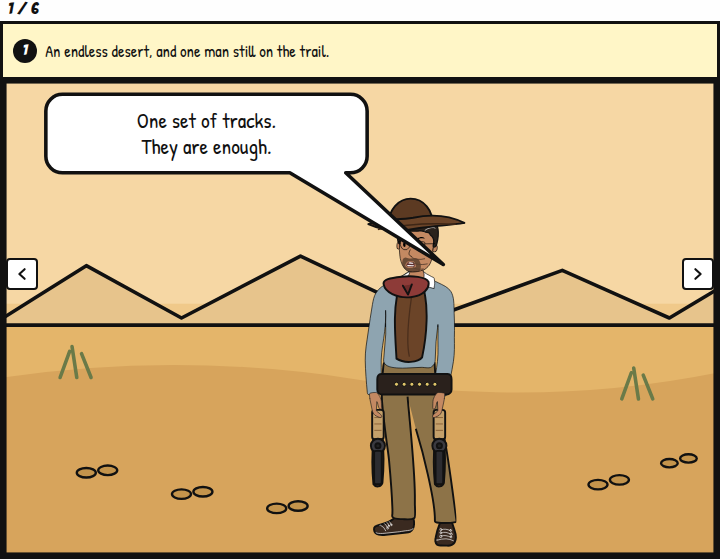
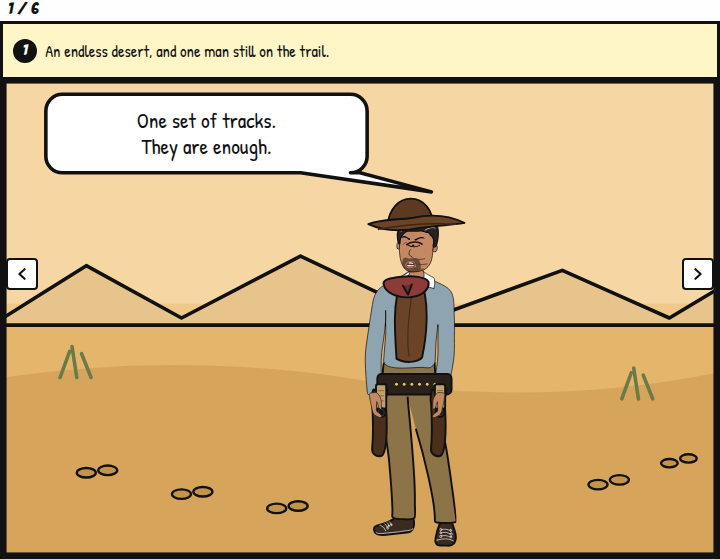
Remove Roland's glasses and connect the gun rig.
Plain weathered eyes replace Ethan's frames. Holsters now hang from the belt with the revolvers seated in them. The man in black wears a peaked hood over a pale, smirking face, and the cold camp is a ring of stones, charred sticks, ash, and a wisp of smoke. The first panel's bubble tail stops above the hat.

Changed region(s): [[0.3972, 0.3041, 0.6111, 0.4866], [0.5806, 0.6691, 0.6417, 0.8819], [0.4889, 0.6691, 0.55, 0.8819]]

diff --git a/_includes/comicbook-the-gunslinger.html b/_includes/comicbook-the-gunslinger.html
@@ -39,7 +39,7 @@
 </g>
 <image href="{{ '/assets/comics/the-gunslinger/roland-side.svg' | relative_url }}" x="300" y="96" width="92" height="300" transform="translate(692,0) scale(-1,1)"/>
 <g class="bubble">
-<path d="M50,12H292A14,14 0 0 1 306,26V64A14,14 0 0 1 292,78H288L370,155L241,78H50A14,14 0 0 1 36,64V26A14,14 0 0 1 50,12Z" fill="#fff" stroke="#111" stroke-width="3" stroke-linejoin="round"/>
+<path d="M50,12H292A14,14 0 0 1 306,26V64A14,14 0 0 1 292,78H300L360,94L250,78H50A14,14 0 0 1 36,64V26A14,14 0 0 1 50,12Z" fill="#fff" stroke="#111" stroke-width="3" stroke-linejoin="round"/>
 <text x="171" y="40" font-family="'Patrick Hand', 'Comic Neue', 'Comic Sans MS', cursive" font-size="18" fill="#111" text-anchor="middle">One set of tracks.</text>
 <text x="171" y="62" font-family="'Patrick Hand', 'Comic Neue', 'Comic Sans MS', cursive" font-size="18" fill="#111" text-anchor="middle">They are enough.</text>
 </g>
@@ -57,16 +57,18 @@
 <line x1="0" y1="200" x2="600" y2="200" stroke="#111" stroke-width="3"/>
 <ellipse cx="455" cy="318" rx="70" ry="16" fill="#c49a52"/>
 <g>
-  <ellipse cx="430" cy="292" rx="16" ry="11" fill="#9a948c" stroke="#111" stroke-width="3"/>
-  <ellipse cx="468" cy="286" rx="15" ry="11" fill="#8e8880" stroke="#111" stroke-width="3"/>
-  <ellipse cx="500" cy="298" rx="16" ry="11" fill="#a29c94" stroke="#111" stroke-width="3"/>
-  <ellipse cx="452" cy="312" rx="18" ry="12" fill="#7e7872" stroke="#111" stroke-width="3"/>
-  <ellipse cx="414" cy="314" rx="14" ry="10" fill="#8a847c" stroke="#111" stroke-width="3"/>
-  <ellipse cx="448" cy="292" rx="22" ry="12" fill="#5e5a56" stroke="#111" stroke-width="3"/>
-  <path d="M430,300 L448,262 L458,300" fill="none" stroke="#2a241c" stroke-width="4" stroke-linecap="round"/>
-  <path d="M470,298 L486,258 L492,304" fill="none" stroke="#1c1814" stroke-width="4" stroke-linecap="round"/>
-  <path d="M448,308 L452,268" fill="none" stroke="#3a3228" stroke-width="3" stroke-linecap="round"/>
-  <path d="M512,318 h28 a8,8 0 0 1 0,16 h-20 l-6,8 -4,-10 h-6 z" fill="#8a9094" stroke="#111" stroke-width="3" stroke-linejoin="round"/>
+  <ellipse cx="468" cy="310" rx="26" ry="9" fill="#c2bbb2"/>
+  <ellipse cx="468" cy="308" rx="14" ry="5" fill="#8e8882"/>
+  <ellipse cx="428" cy="304" rx="12" ry="8" fill="#9a948c" stroke="#111" stroke-width="2.5"/>
+  <ellipse cx="450" cy="288" rx="11" ry="8" fill="#8e8880" stroke="#111" stroke-width="2.5"/>
+  <ellipse cx="484" cy="286" rx="12" ry="8" fill="#a29c94" stroke="#111" stroke-width="2.5"/>
+  <ellipse cx="508" cy="304" rx="12" ry="8" fill="#8a847c" stroke="#111" stroke-width="2.5"/>
+  <ellipse cx="490" cy="324" rx="11" ry="8" fill="#7e7872" stroke="#111" stroke-width="2.5"/>
+  <ellipse cx="446" cy="326" rx="12" ry="8" fill="#918b84" stroke="#111" stroke-width="2.5"/>
+  <path d="M444,320 L492,288" fill="none" stroke="#2a241c" stroke-width="4" stroke-linecap="round"/>
+  <path d="M446,290 L494,322" fill="none" stroke="#1c1814" stroke-width="4" stroke-linecap="round"/>
+  <path d="M458,314 L480,294" fill="none" stroke="#3a3228" stroke-width="3" stroke-linecap="round"/>
+  <path d="M468,286 C472,270 460,258 468,244 C474,232 462,220 470,206" fill="none" stroke="#d9d3cc" stroke-width="3" stroke-linecap="round"/>
 </g>
 <image href="{{ '/assets/comics/the-gunslinger/roland-side-down.svg' | relative_url }}" x="100" y="100" width="89" height="290" transform="translate(289,0) scale(-1,1)"/>
 <g class="bubble">
